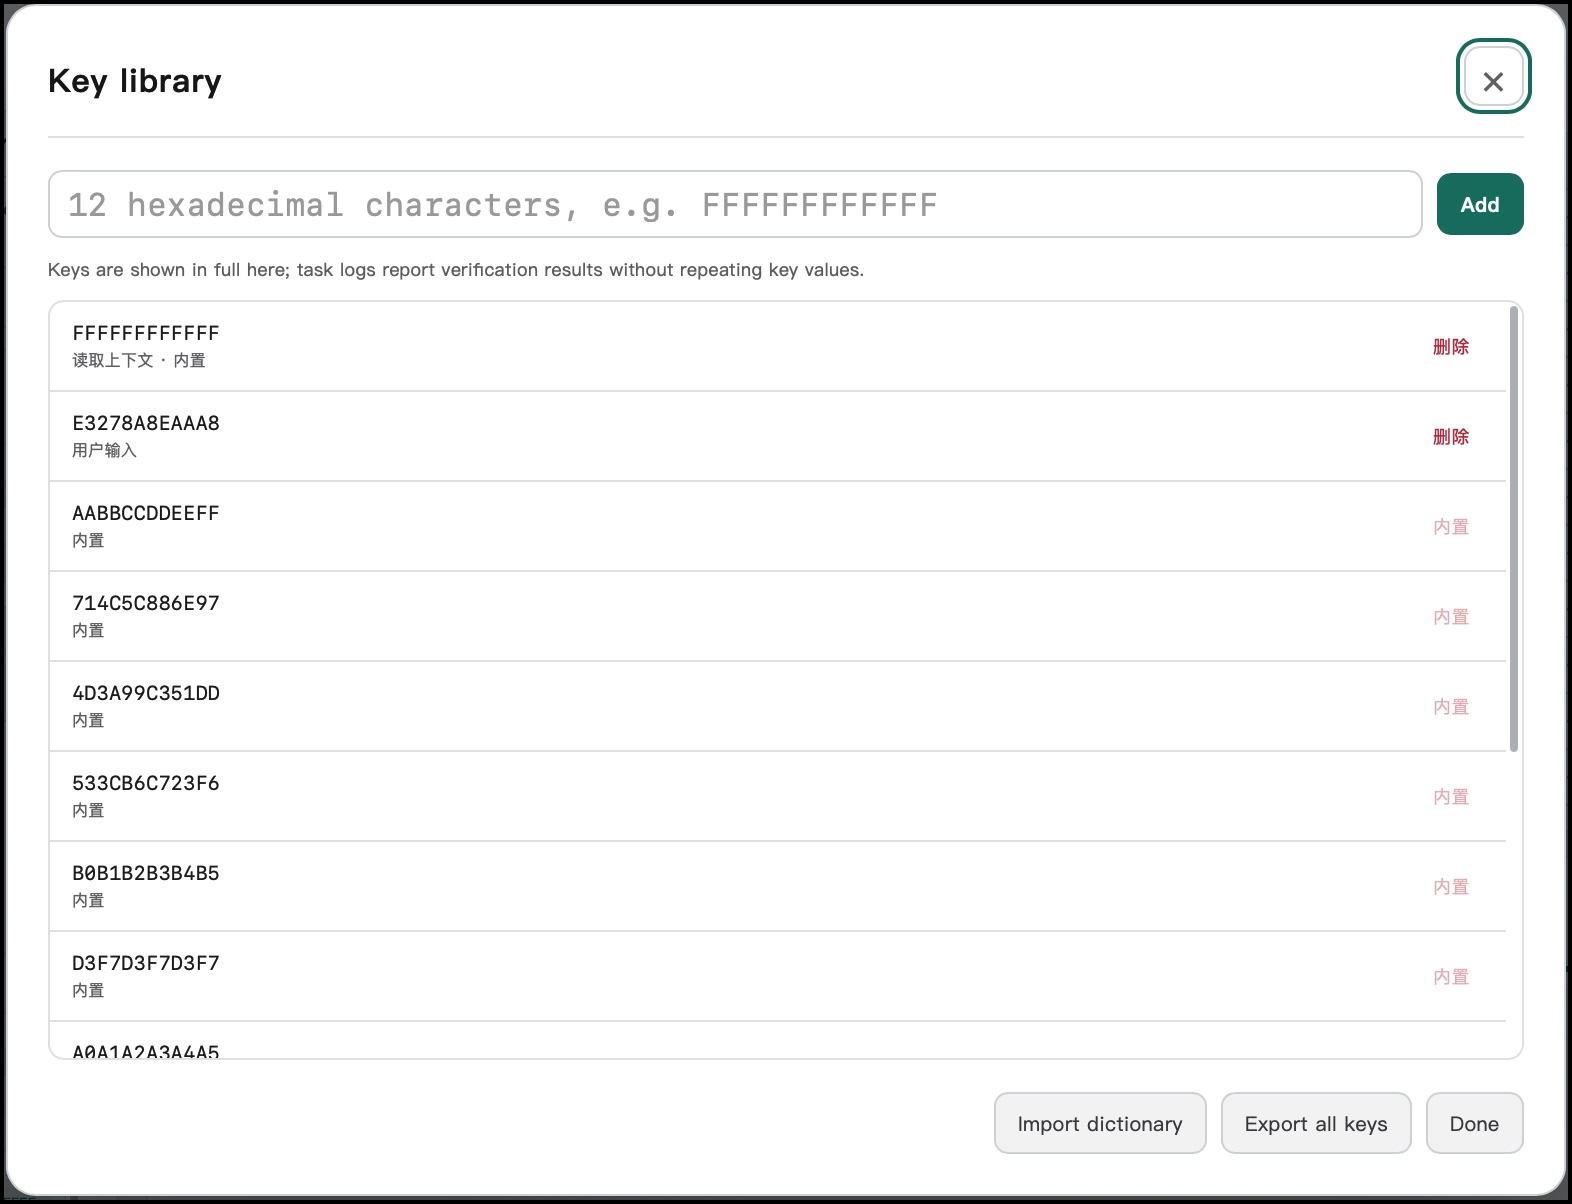
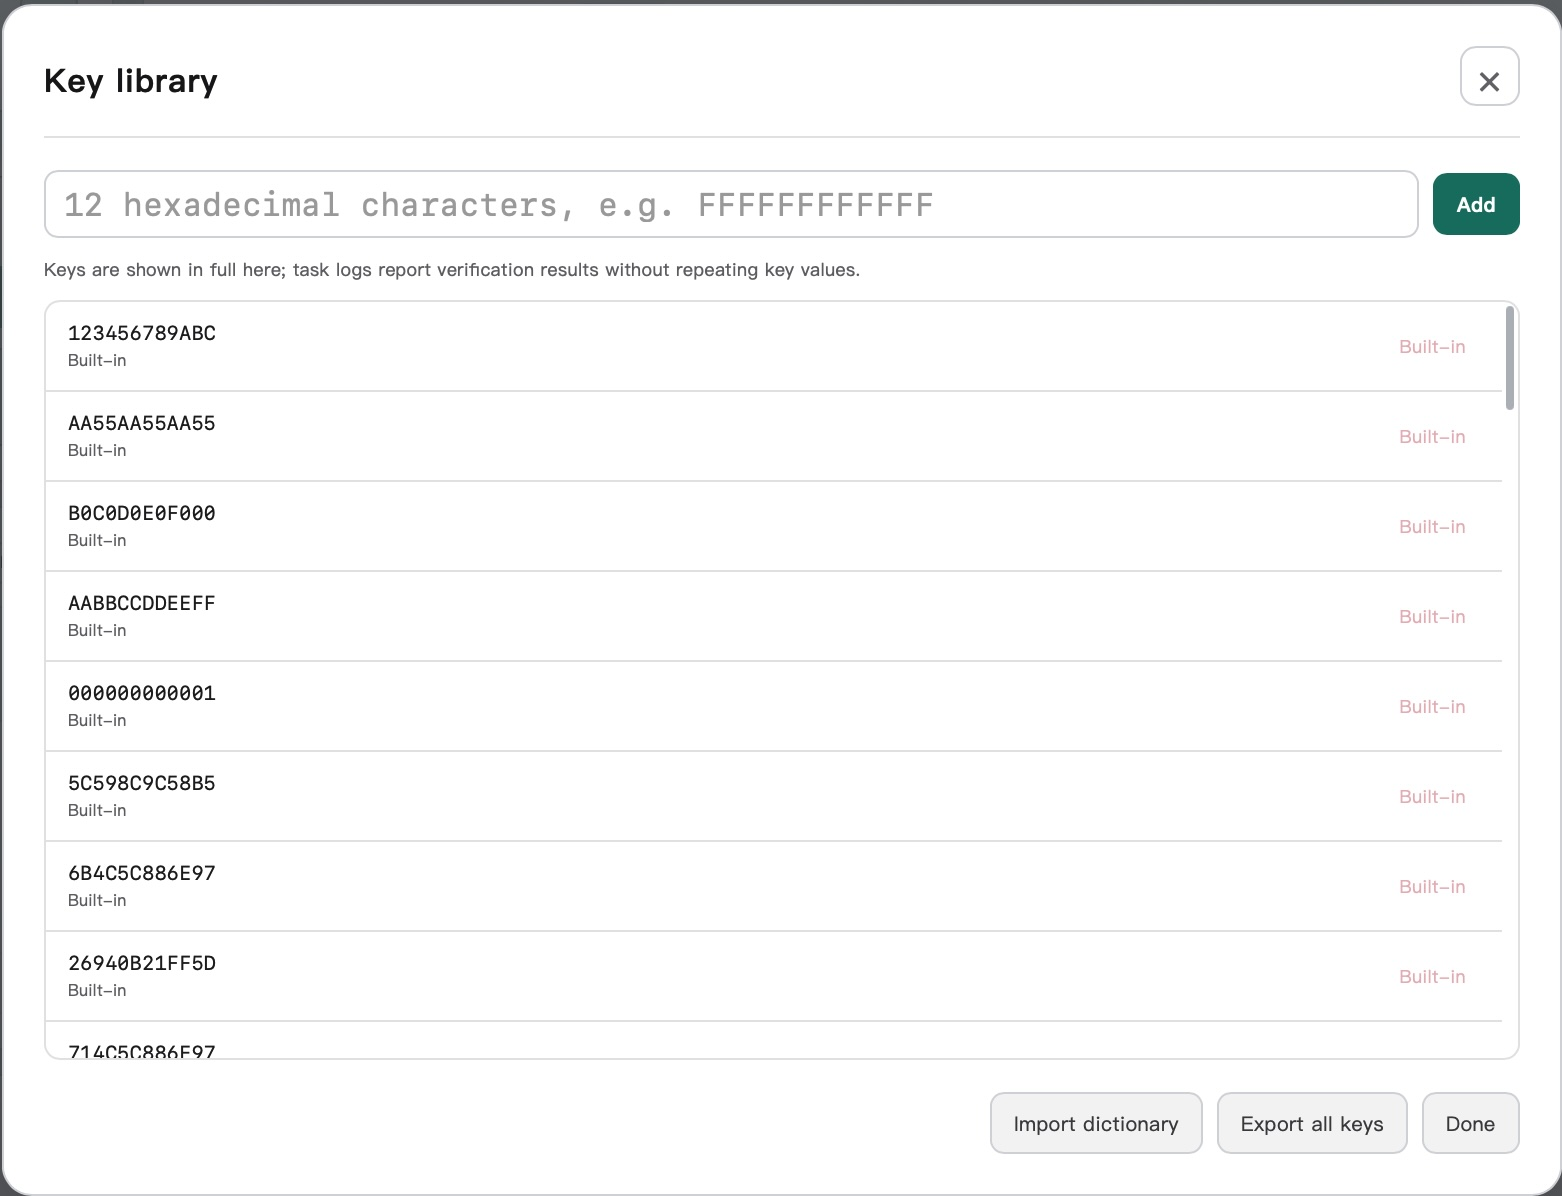
add common keys and update pics

Changed region(s): [[0.0, 0.0, 1.0, 1.0], [0.8912, 0.8043, 0.9526, 0.8353], [0.8912, 0.7115, 0.9526, 0.7425]]

diff --git a/README.zh-CN.md b/README.zh-CN.md
@@ -157,6 +157,8 @@ NFCX 自身采用 MIT License，通常允许商用。若重新分发应用或其
 
 ![NFCX 密钥管理](docs/images/key-lib.jpg)
 
+可以加载任意密钥库，提高解密成功率
+
 # 隐私和匿名遥测
 
 匿名遥测完全可选。首次启动时可以选择是否启用，之后也能随时在 **关于** 中更改。
